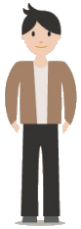
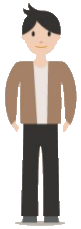
Hitman update #6
- Added background to scene
- Positioned the entities

diff --git a/Hitman/js/level1.js b/Hitman/js/level1.js
@@ -27,12 +27,12 @@
 
 		//Main scene
 		Crafty.scene("main",function() {
-			Crafty.background("#FFF");
+			Crafty.background('#FFFFFF url(../Hitman/img/bg_level1.png) no-repeat center center');
 
 			//Wrong Guy	
 			Crafty.sprite(81, 299, '../Hitman/img/man4.png', {s1:[0,0]});
 			var suspect1 = Crafty.e('2D, Canvas, s1, Mouse')
-				.attr({x: 120, y: 100})
+				.attr({x: 65, y: 253, w: 38, h: 120})
 				.bind('Click', function(MouseEvent){
 					alert('You killed the wrong guy!', MouseEvent);
 					Crafty.scene("fail");
@@ -41,7 +41,7 @@
 			//Right Guy
 			Crafty.sprite(81, 299, '../Hitman/img/man6.png', {s2:[0,0]});
 			var suspect2 = Crafty.e('2D, Canvas, s2, Mouse')
-				.attr({x: 490, y: 100, w:88, h:316})
+				.attr({x: 390, y: 270, w:43, h:160})
 				.bind('Click', function(MouseEvent){
 					alert('You killed the right guy!', MouseEvent);
 					Crafty.scene("succes");
@@ -50,11 +50,16 @@
 			//Wrong Guy	
 			Crafty.sprite(81, 299, '../Hitman/img/woman1.png', {s3:[0,0]});
 			var suspect3 = Crafty.e('2D, Canvas, s3, Mouse')
-				.attr({x: 860, y: 100})
+				.attr({x: 910, y: 320, w: 90, h: 330})
 				.bind('Click', function(MouseEvent){
 					alert('You killed the wrong guy!', MouseEvent);
 					Crafty.scene("fail");
 				});
+				
+			var car = Crafty.e("2D, DOM, Image")
+				.image("../Hitman/img/car.png")
+				.attr({x: 210, y: 325});
+
 				
 
 		});
